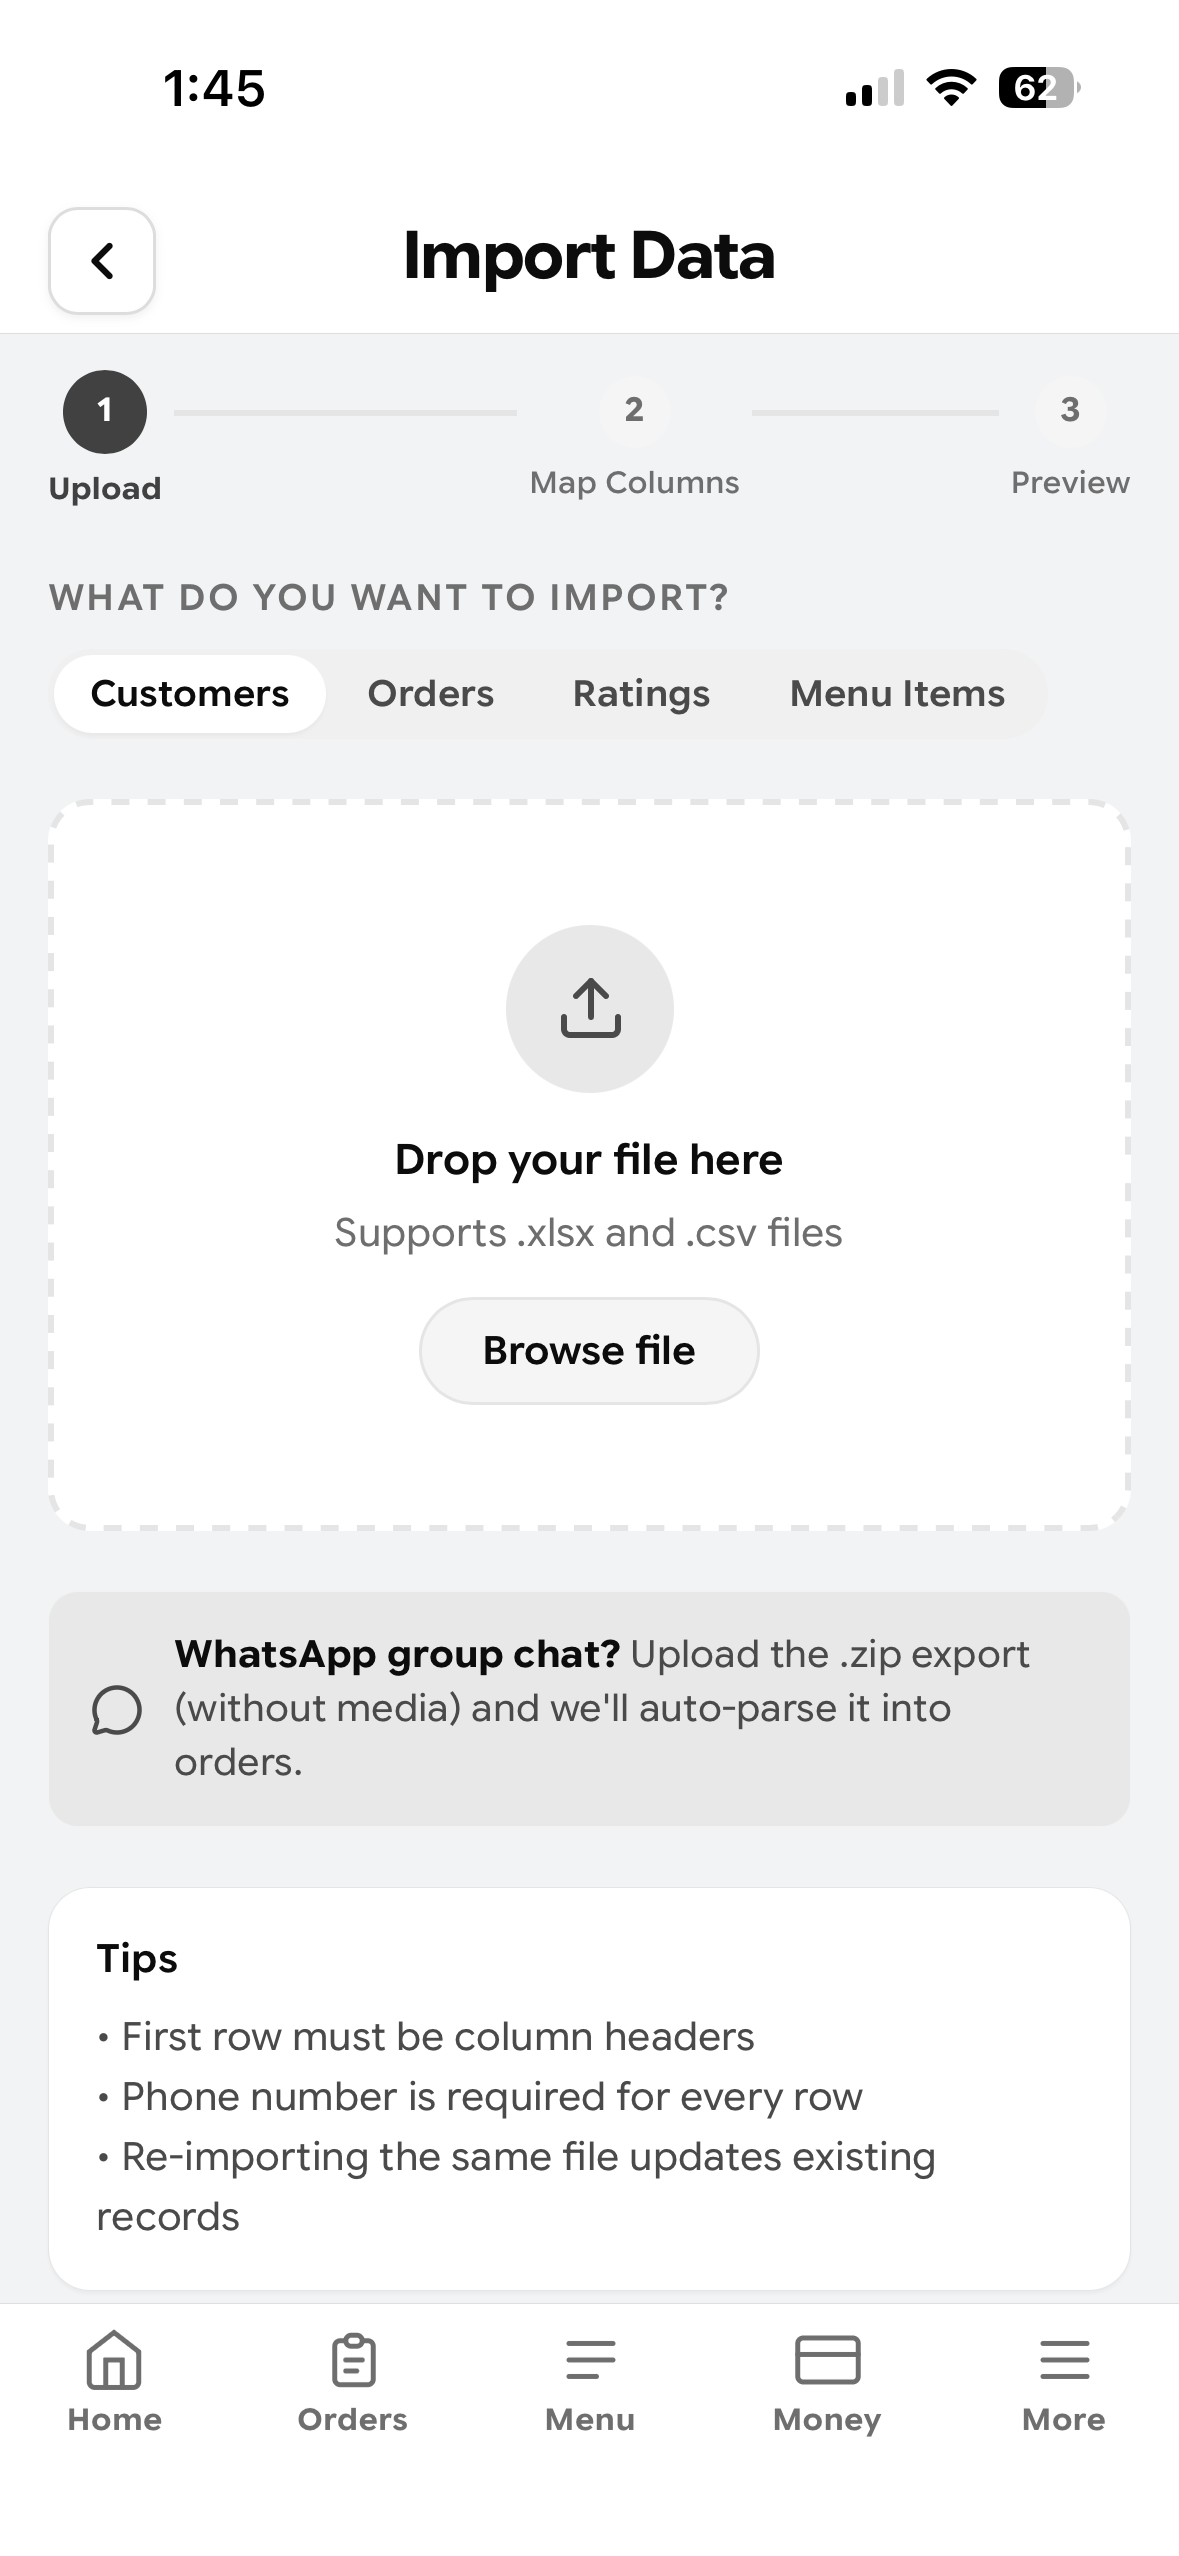
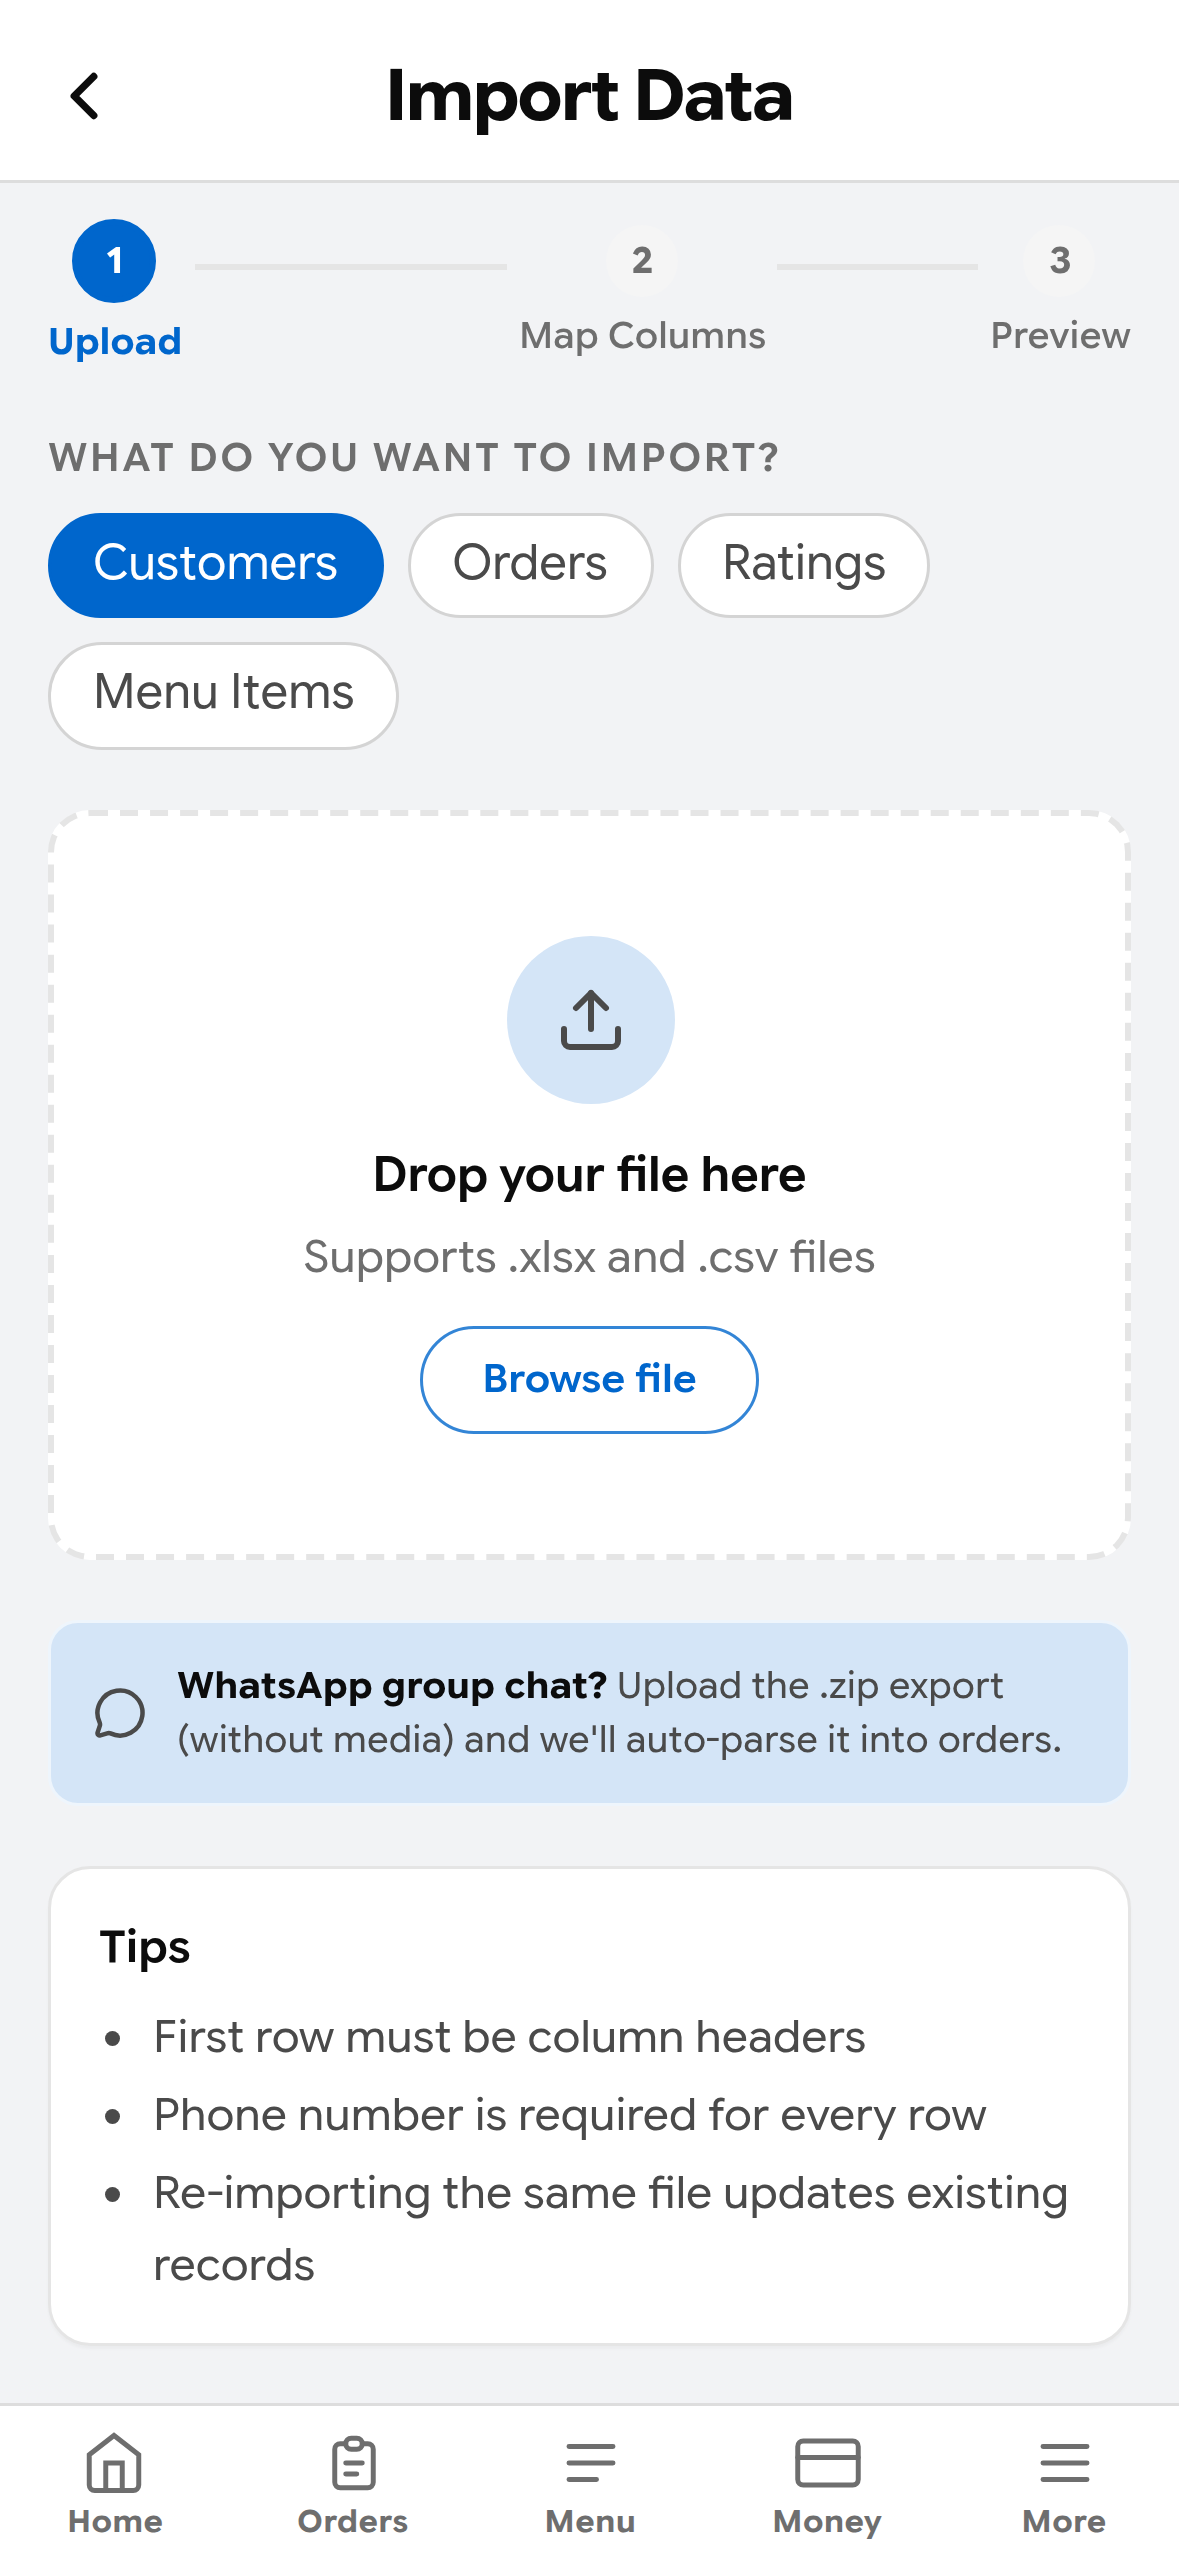
Refresh README screenshots and facts for the current app
Screenshots: 17 replaced with captures of the current production build at the
same 1179x2556 size, taken against a demo kitchen with fictional data, so
nothing needs blurring. Added Customers and two of the WhatsApp auto-order
flow. The storefront and menu shots stay as the redacted live-kitchen
originals, because the demo kitchen has no dish photos.

README:
- New "In testing" section for WhatsApp auto-orders, with its status stated
  plainly (built and deployed, not yet taking real messages).
- Kitchen Assistant runs 8 checks, not 14 (14 was the Home tips engine).
- Tech stack adds the Claude API and WhatsApp Cloud API (both in testing)
  and GitHub Actions CI/CD; scale figures updated from the codebase.
- Architecture notes add the 72-screen visual regression and automated
  function deploys.
- The screenshot note now says which images are demo data and which are
  the live kitchen, instead of claiming all are real.

Claude-Session: https://claude.ai/code/session_01TQBBUweRNTSFuCZG8AKnme

diff --git a/README.md b/README.md
@@ -118,7 +118,7 @@ Three views over the same data: where orders come from, what they earn, and wher
 </tr>
 </table>
 
-The **revenue-by-source** chart is the product thesis proving itself: for this kitchen, **100% of revenue arrives through WhatsApp.** That is precisely why the app is built around WhatsApp instead of trying to move anyone off it.
+The **revenue-by-source** chart is the product thesis proving itself: for the beta kitchen, **100% of revenue arrives through WhatsApp.** That is precisely why the app is built around WhatsApp instead of trying to move anyone off it.
 
 ---
 
@@ -127,7 +127,7 @@ The **revenue-by-source** chart is the product thesis proving itself: for this k
 <table>
 <tr>
 <td width="57%" valign="top">
-<p>A <b>rules-based insights engine</b> (14 rules over the kitchen's own live order, stock, payment and menu data) that surfaces what needs attention today, ranked by urgency, each with an action attached.</p>
+<p>A <b>rules-based insights engine</b> (8 checks over the kitchen's own live order, stock, payment and menu data) that surfaces what needs attention today, ranked by urgency, each with an action attached. Each card opens to show the detail and the action, so a busy morning reads as a short list rather than a wall of text.</p>
 <p>It catches things like: ingredients about to run out before they break an order, an order that has been preparing too long (with a ready-to-send apology message for WhatsApp), unpaid orders piling up, and which dish is actually carrying the week.</p>
 <p>The logic is <b>deterministic and auditable</b>: no model calls, no inference costs, no unpredictable output. Every insight is explainable, arrives in the owner's chosen language, and deep-links to the screen where it can be acted on.</p>
 </td>
@@ -151,11 +151,38 @@ The **revenue-by-source** chart is the product thesis proving itself: for this k
 
 **Menu** holds each dish with its price, photo, availability and cost-to-make. **Stock** tracks ingredients with per-item reorder thresholds, depleting automatically as orders go out.
 
+**Customers** keeps every customer's address, order history and dues in one place, built up automatically as orders come in.
+
+<table>
+<tr>
+<td align="center"><img src="screenshots/customers.png" width="240" alt="Customer list with address and order history" /><br/><sub><b>Customers</b></sub></td>
+<td align="center"><img src="screenshots/reports-export.png" width="240" alt="Download reports as CSV or Excel" /><br/><sub><b>Reports</b></sub></td>
+</tr>
+</table>
+
 **Import** is the onboarding answer to "I already have months of history." A kitchen can upload a spreadsheet, or **export its WhatsApp group chat and have the app parse the messages into structured orders and customers.** Meeting the business where its data already lives is the difference between a tool someone tries and a tool someone adopts.
 
-<img src="screenshots/reports-export.png" width="270" alt="Download reports as CSV or Excel" />
-
 **Reports** export orders, expenses and customers to CSV or Excel. The owner's data stays the owner's, including the ability to take it and leave.
+
+---
+
+## In testing: orders straight from WhatsApp
+
+Today the owner copies an order out of WhatsApp and pastes it in. The next step removes the copy-paste: a message sent to the kitchen's WhatsApp Business number arrives in the app already read.
+
+<table>
+<tr>
+<td align="center"><img src="screenshots/whatsapp-orders-to-review.png" width="240" alt="WhatsApp orders waiting for review on the Orders screen" /><br/><sub><b>Waiting for review</b></sub></td>
+<td align="center"><img src="screenshots/whatsapp-draft-order.png" width="240" alt="New Order form filled in from a WhatsApp message" /><br/><sub><b>Filled in, ready to check</b></sub></td>
+</tr>
+</table>
+
+- The **WhatsApp Cloud API** delivers each message to a Cloud Function, which accepts it only with a valid Meta signature.
+- **Claude** (Anthropic's model) reads the message against the kitchen's own menu: dishes and quantities, cooking notes like "less spicy", an address like "C-1203" split into tower, floor and flat, and a delivery time. Anything not on the menu is flagged, never guessed.
+- The owner taps **Review**, sees the original message above the filled-in order, and taps **Place Order**. **Nothing is ever placed automatically**, so a misread message costs a correction, not a wrong delivery.
+- The model's answer is never trusted blindly: menu items are checked against the real menu server-side, quantities are clamped, and AI reads are capped per kitchen per day so a flood of messages cannot run up a bill.
+
+**Status:** built, deployed and tested end to end against a local copy of the database; waiting on WhatsApp Business account setup before it takes real messages.
 
 ---
 
@@ -172,14 +199,17 @@ Every item below is verified against the codebase.
 | **Serverless** | Netlify Functions: transactional email |
 | **File storage** | Firebase Storage: kitchen branding and dish photos |
 | **Voice** | Google Cloud Text-to-Speech: WaveNet, locale-matched |
+| **AI (in testing)** | Anthropic Claude API, server-side only, structured output |
+| **Messaging (in testing)** | WhatsApp Cloud API webhook |
 | **Charts** | Recharts |
 | **Data import/export** | PapaParse (CSV) · SheetJS (Excel) · JSZip (WhatsApp chat exports) |
 | **Payments** | UPI deep links + generated QR codes |
 | **Hosting** | Netlify: SPA routing, cache and security headers |
 | **App shell** | Installable Progressive Web App |
 | **Internationalisation** | English · Hindi · Kannada, with an automated coverage audit |
+| **CI/CD** | GitHub Actions: visual regression across 72 screens, automated Cloud Functions deploys |
 
-**Scale:** ~190 TypeScript/TSX files · ~44,000 lines · 40 screens · 4 Cloud Functions · ~270 commits.
+**Scale:** ~210 TypeScript/TSX files · ~47,000 lines · 42 screens · 10 Cloud Functions · ~425 commits.
 
 ---
 
@@ -193,6 +223,8 @@ Every item below is verified against the codebase.
 
 **Security was reviewed before real customers were let in.** A phased pre-launch audit ran before the ordering link went out. It found and fixed two real vulnerabilities in the transactional email function: an **open relay** (any unauthenticated caller could send mail from a trusted domain to any recipient) and an **HTML/header injection** hole (user-supplied names were interpolated raw into the message body and subject line).
 
+**Every change is screenshot-tested before it ships.** Each pull request rebuilds the app against the Firebase emulators with a fixed demo kitchen and a frozen clock, captures 72 screens, and reports exactly which ones changed, pixel for pixel. Backend changes deploy themselves from the main branch through a service account, and a deploy refuses to delete a live function that has gone missing from the code rather than removing it silently.
+
 **Known limitations are written down, not hidden.** The private repository documents what does not work and why, including a multi-month iOS PWA viewport bug, the nine mitigation attempts that failed, and the reasoning for parking it rather than shipping a fragile patch.
 
 ---
@@ -202,7 +234,7 @@ Every item below is verified against the codebase.
 I am not a professional developer. I built OrdersIn by **directing and managing an AI-assisted development process**, and that process is the skill this project demonstrates.
 
 - **Defined all product requirements**: who this is for, what belongs on which screen, what a one-person business needs to see first thing in the morning, and what to deliberately leave out. The positioning, the WhatsApp-first strategy, and the decision to serve businesses avoiding the aggregators are mine.
-- **Directed the full build across ~270 commits**: specifying each feature, reviewing what came back, and holding the architectural decisions: server-authoritative security rules over client-side trust, Cloud Functions for every public write, a PWA over a native app, three languages from the start rather than "later".
+- **Directed the full build across ~425 commits**: specifying each feature, reviewing what came back, and holding the architectural decisions: server-authoritative security rules over client-side trust, Cloud Functions for every public write, a PWA over a native app, three languages from the start rather than "later".
 - **Ran the testing and debugging cycles personally**: on real iOS and Android devices, reproducing failures, driving each to a fix and re-testing. I refused work that arrived with "couldn't build or lint" caveats attached.
 - **Owned security**: commissioned the phased pre-launch audit, then deployed the resulting hardened Firestore and Storage rules and Cloud Functions myself.
 - **Run it as a live product**: Firebase project, Netlify deployments, environment configuration, onboarding a real home kitchen, and supporting it while it takes real orders from real customers.
@@ -221,7 +253,9 @@ The claim here is not that I hand-wrote the TypeScript. It is product judgment, 
 
 ## Notes on these screenshots
 
-Every screenshot is from the live application running on a real phone with real data. Customer names, phone numbers, addresses, the kitchen's identity and all payment details have been **redacted to protect the privacy of real people**. The kitchen featured has given permission to be shown. Nothing has been mocked up or recreated for presentation.
+Most screenshots are of the current production build, captured automatically against a **demo kitchen with fictional data** ("Annapurna Home Kitchen", made-up customers and placeholder phone numbers), so nothing needs blurring. They show the real app exactly as it renders; only the data is invented.
+
+Two are from the live beta kitchen, taken on a real phone with its permission: the **customer storefront** and the **menu**, because the demo kitchen has no dish photos. Names, the kitchen's identity and payment details in those two are **redacted to protect the privacy of real people**.
 
 ---
 
